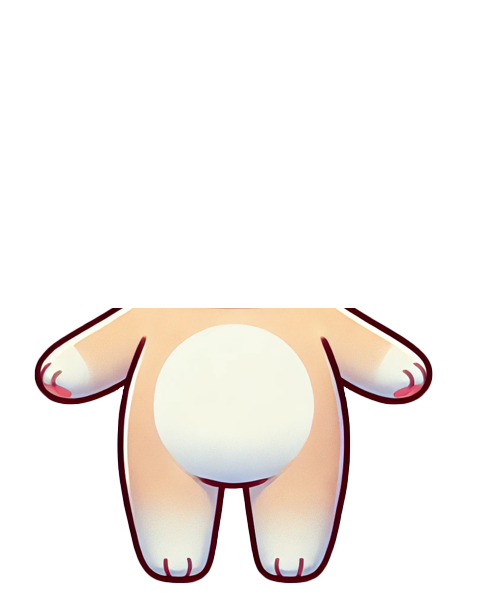
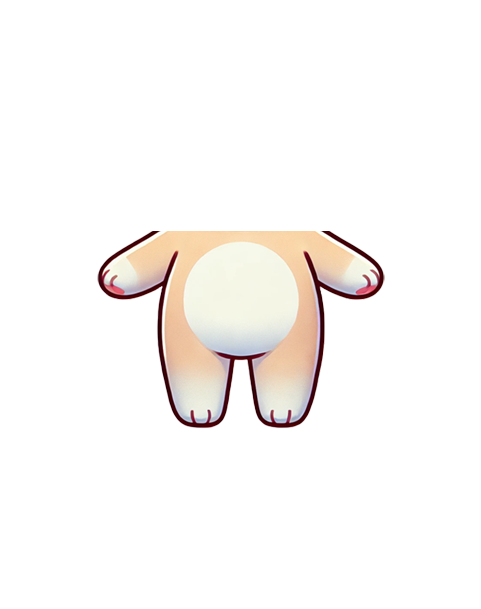
Добавил головы и тела

Changed region(s): [[0.0624, 0.3744, 0.9044, 0.9672]]

diff --git a/front/components/builder.html b/front/components/builder.html
@@ -83,8 +83,9 @@
 
     <script src="../assets/java/main.js"></script>
     <script>
-      const heads = ["../assets/images/head-1.png", "../assets/images/head-2.png"];
-      const bodies = ["../assets/images/body-1.png", "../assets/images/body-2.png"];
+      const heads = ["../assets/images/head-1.png", "../assets/images/head-2.png", "../assets/images/head-3.png",
+       "../assets/images/head-4.png", "../assets/images/head-5.png", "../assets/images/head-6.png", "../assets/images/head-7.png" ];
+      const bodies = ["../assets/images/body-1.png", "../assets/images/body-2.png","../assets/images/body-3.png","../assets/images/body-4.png","../assets/images/body-5.png","../assets/images/body-6.png"];
 
       let headIndex = 0;
       let bodyIndex = 0;

diff --git a/front/assets/css/main.css b/front/assets/css/main.css
@@ -834,8 +834,8 @@ body::after {
 }
 
 .cat-head {
-  width: 60%;
-  bottom: 30%;
+  width: 50%;
+  bottom: 48%;
   transform: translate(-50%, 34%);
   z-index: 2;
 }
